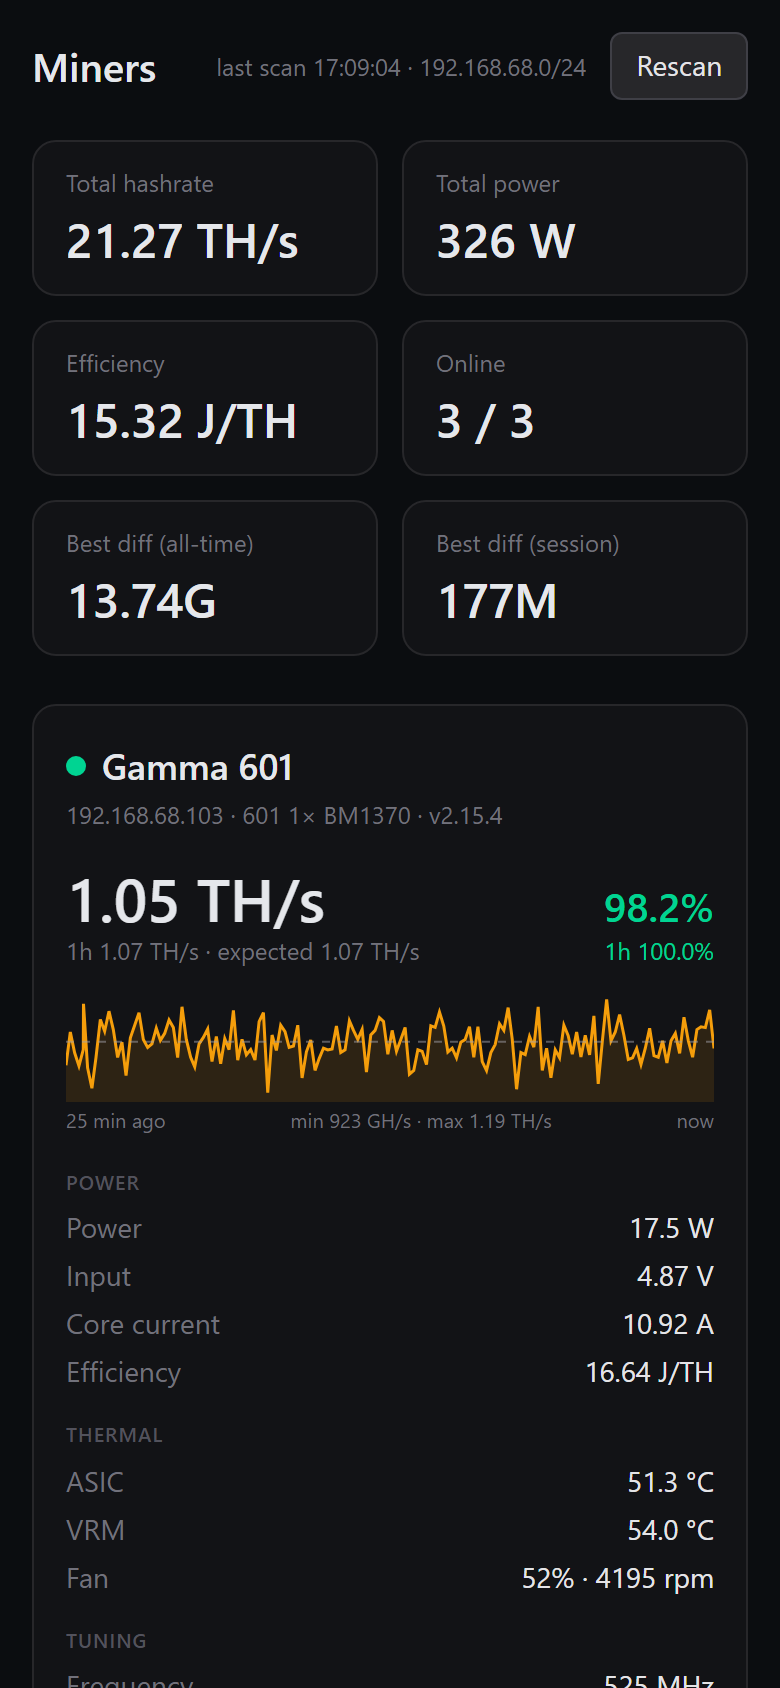
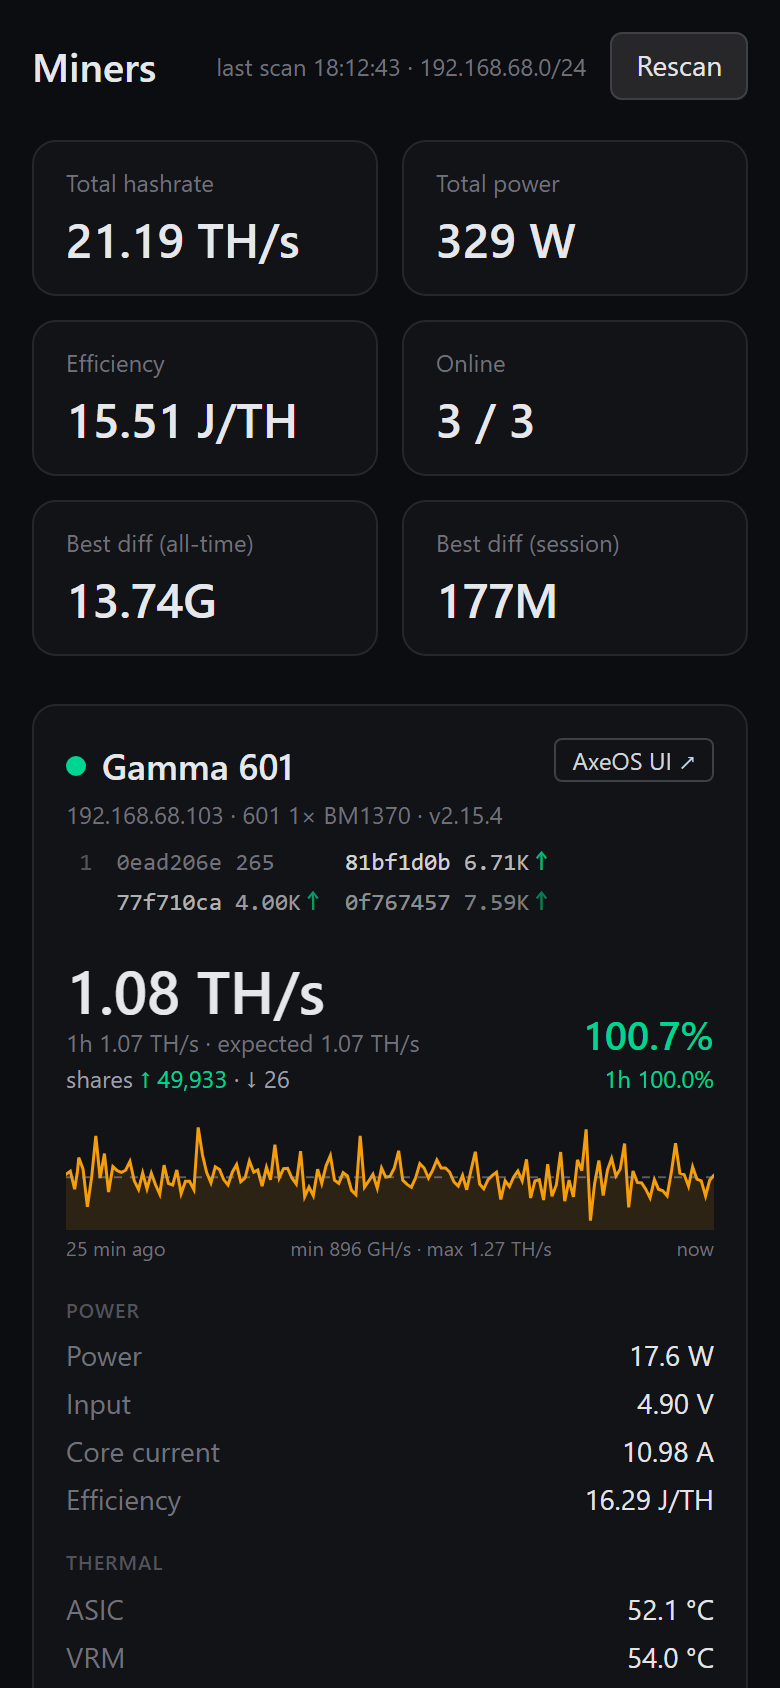
Update screenshots, denser fresh chart, hash estimate on AxeOS
- New README screenshots with the live nonce feed.
- Chart history is averaged into ~288 slots over the actual span instead
  of fixed 5-minute slots, so a freshly started dashboard shows raw 10 s
  points rather than a few straight segments.
- "Hashes (since boot)" falls back to the 1 h average: stock AxeOS has
  no 1-day hashrate.

diff --git a/lib/history.ts b/lib/history.ts
@@ -4,16 +4,19 @@
 import type { HistoryPoint } from "./types";
 
 export const HISTORY_WINDOW_MS = 24 * 3600 * 1000;
-export const BUCKET_MS = 5 * 60_000;
+export const MAX_POINTS = 288; // points sent to the chart: 24 h -> 5-minute slots
+const MIN_BUCKET_MS = 10_000; // = poll interval
 
 /**
- * Average the history into fixed 5-minute time slots. Slots without samples are simply absent,
- * so a period when nobody was polling (PC asleep, miner offline) stays a gap instead of being
- * blended into its neighbours. Short histories (< 1 bucket per point) are returned as is.
+ * Average the history into fixed time slots, about MAX_POINTS of them over the span (5 minutes
+ * for a full day; the first ~48 min are raw 10 s polls), so a fresh chart is not just a few
+ * straight segments. Slots without samples are simply absent, so a period when nobody was polling
+ * (PC asleep, miner offline) stays a gap instead of being blended into its neighbours.
  */
-export function downsample(history: HistoryPoint[], bucketMs = BUCKET_MS): HistoryPoint[] {
-  if (history.length < 2) return history;
-  if (history[history.length - 1].t - history[0].t < bucketMs * 4) return history;
+export function downsample(history: HistoryPoint[], maxPoints = MAX_POINTS): HistoryPoint[] {
+  if (history.length <= maxPoints) return history;
+  const span = history[history.length - 1].t - history[0].t;
+  const bucketMs = Math.max(MIN_BUCKET_MS, Math.ceil(span / maxPoints));
   const out: HistoryPoint[] = [];
   let slot = Math.floor(history[0].t / bucketMs);
   let sum = 0;

diff --git a/components/MinerCard.tsx b/components/MinerCard.tsx
@@ -115,7 +115,8 @@ export function MinerCard({ m, now, feed }: { m: MinerView; now: number; feed?: 
   const total = s.pool.accepted + s.pool.rejected;
   const rejPct = total ? (s.pool.rejected / total) * 100 : 0;
   // NerdQAxe has no hash counter: estimate from the average hashrate since boot.
-  const avgHr = (s.uptimeSeconds ?? 0) >= 86400 ? s.hashRate1d : s.hashRate1h;
+  // (stock AxeOS has no 1-day average, only 1 h)
+  const avgHr = ((s.uptimeSeconds ?? 0) >= 86400 ? s.hashRate1d : undefined) ?? s.hashRate1h ?? s.hashRate;
   const hashesSinceBoot = s.uptimeSeconds && avgHr ? avgHr * 1e9 * s.uptimeSeconds : undefined;
 
   return (

diff --git a/README.md b/README.md
@@ -11,9 +11,10 @@ Next.js (App Router), no database, no auth, no Docker. Read-only: it never chang
     <td width="40%"><img src="docs/mobile.png" alt="Mobile view"></td>
   </tr>
   <tr>
-    <td>Miner card: hashrate vs expected, 24 h chart, power, temperatures, pool and per-chip
-    error rate (NerdQAxe firmware).</td>
-    <td>On a phone the cards stack in a single column.</td>
+    <td>Miner card: live nonce feed per chip (↑ accepted share), hashrate vs expected, shares,
+    24 h chart, power, temperatures, pool, hashes since boot and per-chip error rate
+    (NerdQAxe firmware).</td>
+    <td>On a phone the cards stack in a single column and each chip's nonces wrap to 2×2.</td>
   </tr>
 </table>
 
@@ -78,8 +79,9 @@ and a Bitaxe Gamma 601 on AxeOS v2.15.
   The browser gets the events via server-sent events from `GET /api/feed`. If a firmware
   update changes the log format, only the feed line goes blank. Note that the ESP32 has few
   websocket slots and the dashboard holds one per miner.
-- **API:** `GET /api/miners` returns the current state plus history averaged into 5-minute
-  slots (slots with no samples are left out, so gaps stay gaps). `POST /api/rescan` runs a scan and waits for it to finish (about 10 s per /24).
+- **API:** `GET /api/miners` returns the current state plus history averaged into at most
+  288 time slots (5 minutes each for a full day, raw 10 s polls for the first ~48 min); slots
+  with no samples are left out, so gaps stay gaps. `POST /api/rescan` runs a scan and waits for it to finish (about 10 s per /24).
 - **Units.** The two endpoints disagree on units (e.g. voltage in mV vs V, current in mA vs A),
   and stock Bitaxe reports ASIC core-rail current rather than input current. Everything is
   normalized in `lib/miner-api.ts`.
